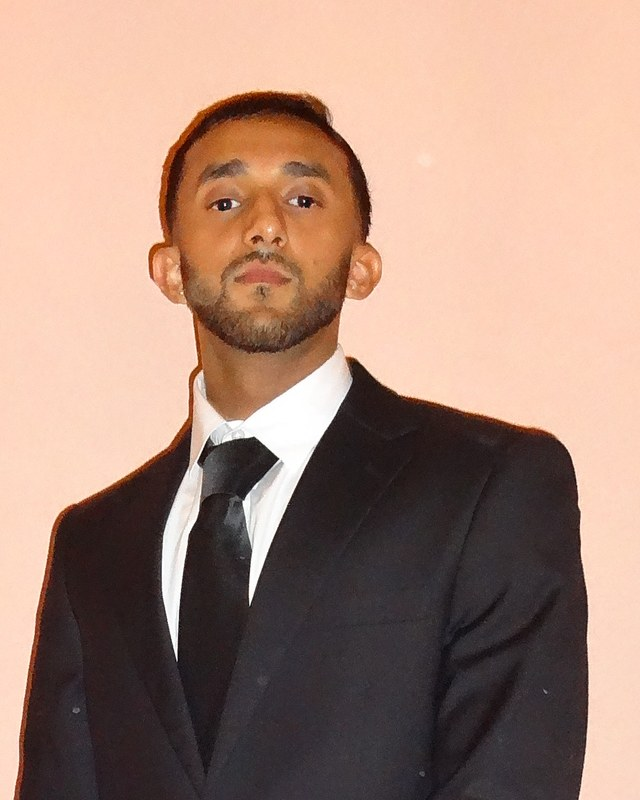
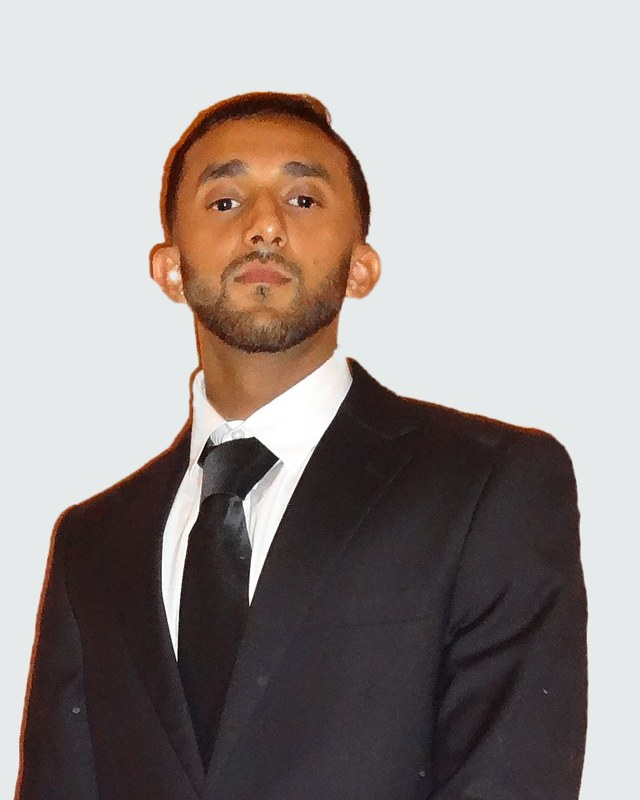
About: Arnav's headshot on the same light-grey ground as Kush's (pink wall keyed out)

diff --git a/app/about/page.tsx b/app/about/page.tsx
@@ -102,7 +102,9 @@ const TEAM: Person[] = [
     name: 'Arnav Jain',
     role: 'Engineering',
     // Kush, 2026-08-23: ~/Downloads/DSC01837.JPG (4896x3672, EXIF-rotated to
-    // portrait) cropped head-and-shoulders at 4:5, flash red-eye reduced.
+    // portrait) cropped head-and-shoulders at 4:5, flash red-eye reduced, and
+    // the pink wall keyed out to the same light-grey ground as Kush's photo
+    // ("make arnav's background white and consistent with mine").
     photo: '/team/arnav.jpg',
     objectPosition: '50% 35%',
   },
